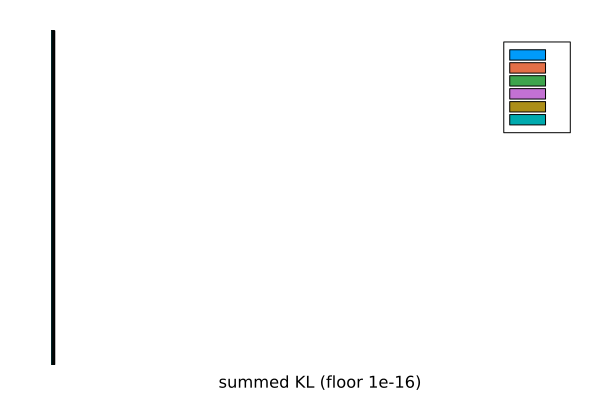
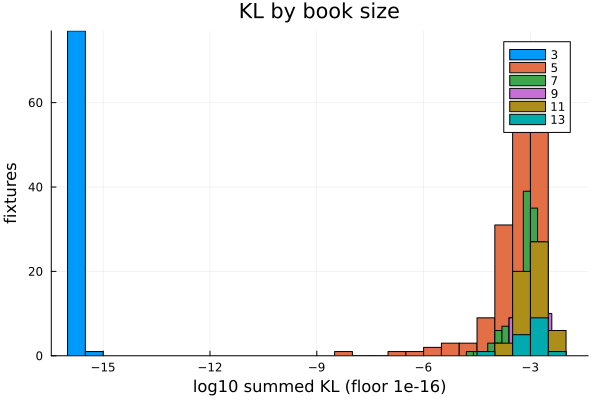
results(market-model): complete Phase A report and figures

Changed region(s): [[0.0, 0.06, 0.99, 0.99], [0.39, 0.0, 0.66, 0.06]]

diff --git a/current_development/market_model/results/A/PHASE_A_REPORT.md b/current_development/market_model/results/A/PHASE_A_REPORT.md
@@ -1,27 +1,32 @@
-# Phase A — BLOCKED (2026-10-05)
+# Phase A — KL inversion of the close (2026-10-05)
 
-**Do not promote to Phase B.** Implementation commit `91619e17`. This is a partial result, not Phase A sign-off. No database writes, MCMC, remote compute, `src/` edits, or push.
+**Phase A implementation complete for manager review. Stop before Phase B; human sign-off remains required.** Commits: `91619e17` (initial implementation), `24ae58aa` (partial results and original blocker), `59cea04b` (plot repair and same-fixture comparisons); this report and final artifacts are in the follow-up results commit. No database writes, MCMC, remote compute, `src/` changes, push, or branch operation.
 
-## Blocked
+## Verification against the Phase A acceptance items
 
-`julia --project -t 8 current_development/market_model/r01_kl_inversion.jl` failed twice, in fresh processes, with `AssertionError: total_plotarea_horizontal > 0mm` from Plots/GR at the `A_line_residuals.png` `savefig` call (line 130). The second attempt used a horizontal rather than vertical layout but produced the identical failure. Per the working agreement, stopped rather than attempting a third layout. `A_kl_distribution.png` exists; the other three figures, `runtime.csv`, and a successful fresh top-to-bottom runner execution do **not** exist. No valid full-run wall time can be claimed. The CSVs below were written *before* the plot failure. The empty plot file from the failure was removed. The plotting layout must be diagnosed before sign-off; do not treat a nonempty CSV as evidence that the runner completed.
+1. **Tests and grid.** In newly started persistent tmux session `pi_julia_mm:0.0` (`%8`), launched with `julia --project -t 8`, ran `include("current_development/market_model/r01_kl_inversion.jl")` followed by `include("current_development/market_model/t01_market_model_tests.jl")`. Runner printed anchored `R01_DONE`, tests printed anchored `T01_DONE` and **269/269** passed. The test uses 50 random Poisson-product grids as an independent reference to the production `Features.build_probability_matrix(DoublePoissonMarketFeature(), θ, 10)` call, plus full-book and 1X2+OU2.5 synthetic recovery to 1e-6, KL identity, completeness, gate order and real-panel bridge parity (`obs_y`, `obs_att`, `obs_def`, `obs_week`, `week_ptr`). Session `pi_julia_mm` remains running for inspection.
+2. **Panel and gates.** `coverage.csv`: **710** panel fixtures → 78 no book → 36 no complete 1X2 → 0 other ordered refusals → one T014 swapped book → **595 accepted**. T014 is excluded first in code and separately classified after the sequential gates in the table. `book_effect.csv` counts **2,306** raw panel market groups, **239** rejected before normalisation. `market_refusals.csv` covers the full Betfair close, not just panel fixtures: **577** incomplete OverUnder groups and **2** incomplete 1X2 groups; `market_refusal_details.csv` has their IDs, counts and overrounds. Rates for every fixture, including refusals, are in `rates.csv`.
+3. **T015 and T014.** The 27 TODO 023 fixtures with `has_1x2=false` are refused: 12476631, 12476610, 12476599, 12476759, 12476765, 12476753, 12476754, 13171688, 12476563, 13159980, 12476709, 13255608, 12473327, 14035515, 14035520, 14035709, 14035533, 14035540, 14035715, 14035729, 14035564, 14035743, 14035748, 14035592, 14035609, 14035807, 14035651. Of these, **12473327** has no book on the pinned store and is refused at **gate 1**, while the other 26 are refused at gate 2. The manager/human accepted that exception to the original brief's all-at-gate-2 wording; the gate order was not changed. **14035501** is refused as `T014 swapped book`.
+4. **Multistart.** `optimum_check.csv`: **595** three-start fits, max absolute Δθ **4.0326864902962e-8** (≤1e-6). This is empirical multistart evidence rather than a formal global convexity proof. Optimiser: Optim BFGS with finite-difference gradients, `g_tol=1e-10`; starts `[log(1.5),log(1)]`, `[log(0.4),log(3.2)]`, `[log(3.2),log(0.4)]`. KL uses the existing production Features double-Poisson grid with max_goals=10, not a second grid implementation.
+5. **KL against SSE.** `kl_vs_sse.csv` is the *same gated book* control; `kl_vs_sse_quantiles.csv` contains all quantiles (0, 5, 25, 50, 75, 95, 100%) and `kl_vs_sse_top20.csv` contains the 20 largest fixtures, sorted by max absolute per-side Δ. Selected quantiles over **595** common accepted fits (Δ = KL − SSE):
 
-## Acceptance inventory (partial)
+   | Axis | 5% | median | 95% |
+   |---|---:|---:|---:|
+   | log λ_h | −0.009692972116086216 | −0.00017524707131786845 | 0.005647768547719419 |
+   | log λ_a | −0.014571739079469839 | −0.002168073174090561 | 0.004580936124000036 |
+   | supremacy log(λ_h/λ_a) | −0.009197244160998156 | 0.000862779279500782 | 0.015554874685595799 |
+   | log(λ_h + λ_a) | −0.006256213354914072 | −0.0016106016251279862 | 0.00227453463867023 |
 
-1. Tests: `julia --project -t 8 current_development/market_model/t01_market_model_tests.jl` passed **264/264**. The optimiser uses Optim BFGS with finite-difference gradients, `g_tol=1e-10`, at three starts (`[log(1.5),log(1)]`, `[log(0.4),log(3.2)]`, `[log(3.2),log(0.4)]`). The grid is called directly via `Features.build_probability_matrix(DoublePoissonMarketFeature(), θ, 10)`; no duplicate production grid. An independent Poisson-product test checks 50 random θ. Synthetic full-book and 1X2+OU2.5 inversions recover both log rates to 1e-6.
-2. `coverage.csv`: 710 panel fixtures → 78 no book → 36 no complete 1X2 → 0 other sequential failures → 1 T014 swap → **595 accepted**. The T014 exemption is shown separately after the sequential gates. `book_effect.csv` counts 2,306 raw panel market groups and **239 removed groups**, gated before re-normalisation; `market_refusals.csv` breaks these out by market and reason. Note that the T014 exemption is applied ahead of the gates in code, so its displayed row is a category, not a chronological gate. **DESIGN §4.1's ~595 estimate happened to hold; its stated 623 − 27 − 1 arithmetic ignores additional changes in the pinned close.**
-3. All 27 prior `has_1x2=false` fixture IDs from TODO 023's `fixture_features.csv` are refused in `rates.csv`: 12476631, 12476610, 12476599, 12476759, 12476765, 12476753, 12476754, 13171688, 12476563, 13159980, 12476709, 13255608, 12473327, 14035515, 14035520, 14035709, 14035533, 14035540, 14035715, 14035729, 14035564, 14035743, 14035748, 14035592, 14035609, 14035807, 14035651. **12473327 is refused by gate 1 (`no Betfair book`) rather than gate 2**, because the pinned snapshot has no complete price group at all. The other 26 fail gate 2. The brief's requirement that *all 27* report gate 2 contradicts its own mandated gate order on this snapshot; no gate was reordered to force that count. 14035501 is refused as `T014 swapped book`.
-4. `optimum_check.csv`: 595 three-start solves, maximum absolute log-rate difference **4.0326864902962e-8**, under 1e-6. This is multistart evidence, not a mathematical proof of global convexity.
-5. `kl_vs_sse.csv`, `kl_vs_sse_quantiles.csv`, and `kl_vs_sse_top20.csv` give the four requested axes and 20 largest by maximum absolute per-side difference. Among 595 common accepted fits, Δlog λ_h median **−0.00017524707131786845** (min −0.02972295257577995, max 0.03883180777144209). Largest is match 14035643 (Δlog λ_h 0.03883180777144209, Δlog λ_a 0.039110080114378144). `ungated_reproduction.csv`: **623** common historical SSE fits, max absolute λ difference **0.0** on both sides. `previously_accepted_refused.csv` lists **28** previous fits now refused (27 non-1X2 IDs and T014; one of the 27 is now no book). The cache snapshot, rather than the SSE implementation, explains the changed book coverage.
-6. `line_residuals.csv` (overall, 56/57 and book-size splits) and `heldout_line_test.csv` exist, with 2,000 fixture-bootstrap replications at fixed seed 3901. The `selection_residuals.csv` contains every underlying quoted selection. The held-out test is *within the same fixture*, not a forecast. Overall fitted 1X2 draw residual q−p is **−0.013354049014150333** (95% CI [−0.014137137820214257, −0.012596330522070548], n=595), with home +0.0065287602388371295 and away +0.0068252887753132135: the double-Poisson grid systematically puts less mass on the draw than the close. Held-out OU1.5 over has q−p **−0.004390269987557269** (95% CI [−0.005705594532563116, −0.0031384522094111975], n=154); held-out OU3.5 over +0.001397283046455459 (CI includes zero, n=172). These are book-shape discrepancies, not predictive errors. **The held-out CSV does not yet explicitly include the in-sample comparison restricted to the same fixtures; this remains to be added.**
-7. Figure and full-run acceptance **fail** as described above. TODO 039 has a dated `@pi` Work Log line. `./scripts/todo.sh check` passes after repairing the pre-existing invalid multi-person Assignee metadata to `pi` and matching README registry. No Phase B work started.
+   The largest per-side gap is match **14035643**: Δlog λ_h **0.03883180777144209**, Δlog λ_a **0.039110080114378144** (`kl_vs_sse_top20.csv`). Separately, `ungated_reproduction.csv` checks TODO 023's `market_targets.csv`: **623** finite matches in common, max |Δλ_h| and |Δλ_a| both **0.0**. `previously_accepted_refused.csv` lists **28** old accepted matches now refused (the 27 T015 cases including one now without a book, plus T014). We did not tune gates or subset to force reproduction.
+6. **Line shape and held-out-line check.** `line_residuals.csv` reports q−p by line × selection overall, by tournament 56/57, and by `n_markets`. `heldout_line_test.csv` now reports held-out n, mean, 2,000-rep fixed-seed (3901) fixture-bootstrap 95% CI, mean absolute residual **and the same columns prefixed `insample_` on the exact same fixtures**. All 56 held-out summary rows have `n == insample_n`; the join fails loudly otherwise. Raw rows are in `selection_residuals.csv`. The 1X2 draw residual overall is **−0.013354049014150333** (95% CI [−0.014137137820214257, −0.012596330522070548], n=595); home and away are **+0.0065287602388371295** and **+0.0068252887753132135**. The plain double Poisson puts less mass on draws than the book. Held-out OU1.5 over is **−0.004390269987557269** (CI [−0.005705594532563116, −0.0031384522094111975], n=154) versus full-book in-sample **−0.0025729133821867835** on those 154 fixtures. Held-out BTTS yes is **−0.011972283886809642** (CI [−0.014635928514269106, −0.009597099399237544], n=111) versus full-book **−0.00790656698211298** on those 111 fixtures. Held-out OU3.5 over **+0.001397283046455459** (n=172) has a CI crossing zero. Thus some derivative lines, especially BTTS and lower totals, disagree with the grid even when identifying rates from 1X2+OU2.5; this is a **within-fixture book-shape check, not a forecast**.
+7. **Figures, fresh execution and TODO.** All four inspected, nonempty PNGs are in `results/figures/`: `A_kl_distribution.png` (log10 KL by selection count), `A_line_residuals.png` (all 21 overall selection rows with CIs), `A_kl_sse.png`, `A_rates.png`. Fresh tmux runner reached `R01_DONE`; `runtime.csv` records **38.179800033569336 seconds** from runner configuration to last output (package/loader load and Julia startup excluded; terminal printing of time is slightly later). TODO 039 has dated `@pi` work log lines. `./scripts/todo.sh check` passes. Overall task 039 remains IN_PROGRESS for Phases B–D.
 
-## Provenance and choices
+## Plotting diagnosis (previous blocker resolved)
 
-The cache is `.cache/datastore_ScottishLower.jls`: `snapshot.csv` records mtime **2026-09-25T12:57:15.480** (UTC conversion; local `stat` shows 2026-09-25 13:57:15.480765468 +0100) and size **55,903,698 bytes**. Loaded with `max_age_hours=10^6`; `Manifest.toml` is a git-ignored local symlink to the root repository manifest, whose Distributions pin is 0.25.126. The first attempt without this manifest could not load DotEnv and never reached the test. No packages were added or updated.
+A minimal fresh-process plot probe read the same **21** overall rows from `line_residuals.csv` and `heldout_line_test.csv`. Saving the residual scatter alone succeeded. Saving the original `histogram(KL, xscale=:log10, group=n_selections)` immediately *before* it reproduced `AssertionError: total_plotarea_horizontal > 0mm`. Removing **each, one at a time**, of `left_margin`, string `yticks`, `xerror`, or explicit `size` still produced that assertion when the histogram came first; none of those four features individually triggered it. It is the **preceding log-x histogram / Plots-GR state** that triggers the failure. Independently, visual inspection found that histogram's original PNG was blank and GR warned “No strict ticks found”; counting the old file as a figure would have been wrong. The runner now plots residuals and rates first, and bins `log10(max(KL, 1e-16))` explicitly to show the log-x distribution, including numerical zeros. The resulting histogram has populated bars and all figures were visually checked. The diagnostic probes happened before the manager's new REPL-only process rule; the final acceptance run and tests used the persistent tmux REPL, not one-shot Julia processes.
 
-KL is summed over complete market groups, with each quoted selection contributing once; the 10-goal grid uses the exact `Features` function and its existing tail convention. The required local panel bridge extends `MarketInverseDynamics.build_market_panel(ds, frame; …)` on its own module in the prototype; the real-store test confirms `obs_y`, `obs_att`, `obs_def`, `obs_week`, and `week_ptr` exactly equal the original.
+## Provenance and design notes
 
-## DESIGN concerns
+`results/A/snapshot.csv`: `.cache/datastore_ScottishLower.jls` is **55,903,698 bytes**, mtime **2026-09-25T12:57:15.480 UTC** (local `stat`: 2026-09-25 13:57:15.480765468 +0100). Loaded with `max_age_hours=10^6`; the git-ignored local Manifest symlink pins Distributions to 0.25.126. No package updates or additions. `MarketInverseDynamics.closing_book(ds)` retains TODO 023's TWA(−20,0] prices, but its pre-normalised fair prices are not trusted: group completeness and overround [0.90,1.10] are checked on its raw odds before *re*-normalising. Only L2 inversion lines are included. The external-frame `MarketInverseDynamics.build_market_panel(ds, frame; …)` bridge matches the original panel observation arrays exactly.
 
-DESIGN §3 calls the TODO 023 closing book "reused as-is" while §4.1 requires completeness before de-vigging; the prototype gates its raw odds and re-normalises rather than relying on its old fair probabilities. DESIGN §4.1 says the KL cutoff should be read off the distribution, while this brief fixes 0.01; this implementation follows the brief's fixed threshold and reports the gate count without tuning. The T015 gate-2 expectation fails for one fixture under the specified gate order as noted above. No thresholds were loosened or fixtures silently removed to make a check pass.
+DESIGN §3's “close book reused as-is” is ambiguous beside §4.1's completeness-before-de-vig requirement; price selection is unchanged but the old de-vig is replaced after gating. DESIGN §4.1 says choose the KL cutoff from the distribution, while the Phase A brief fixes 0.01: this run follows the fixed, reported 0.01 without tuning. DESIGN §4.1's ~595 expected accepted count happens to agree, but its shortcut 623 − 27 − 1 ignores the pinned snapshot's additional book-group refusals. No Phase B modelling has started.

diff --git a/todos/039_market_model_inversion_and_team_strength_eda.md b/todos/039_market_model_inversion_and_team_strength_eda.md
@@ -55,6 +55,11 @@ in `current_development/market_model/DESIGN.md`.
   written before the failure; figure set/runtime are incomplete. See
   `current_development/market_model/results/A/PHASE_A_REPORT.md`. Phase A blocked,
   not promoted to Phase B; manager/human review pending.
+- [2026-10-05 @pi] Phase A follow-up: diagnosed the Plots/GR failure as state left by
+  the log-x KL histogram, repaired the empty histogram and figure ordering, added
+  same-fixture in-sample held-out comparisons. Fresh `pi_julia_mm` tmux Julia REPL:
+  `R01_DONE` and `T01_DONE` (269/269). All four figures and runtime CSV present;
+  Phase A ready for manager review, not Phase B authorisation.
 
 ## Verification & Findings
 
